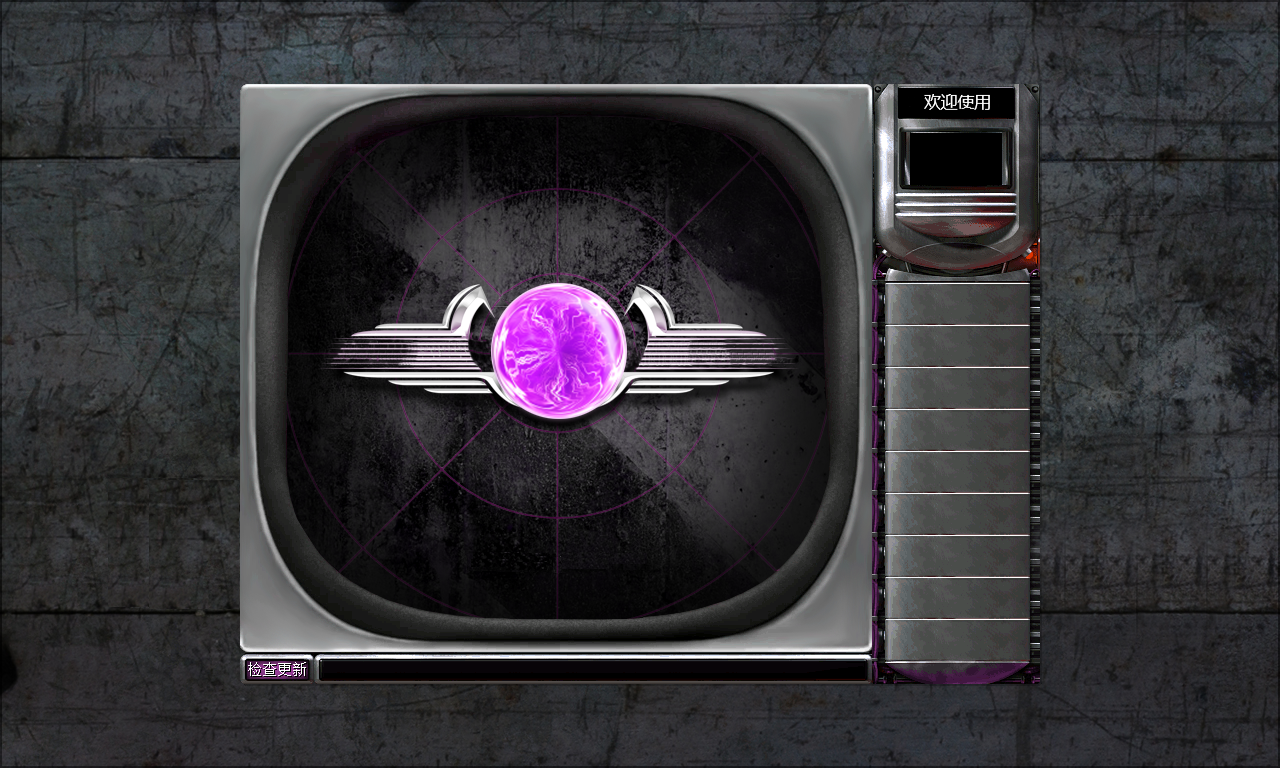
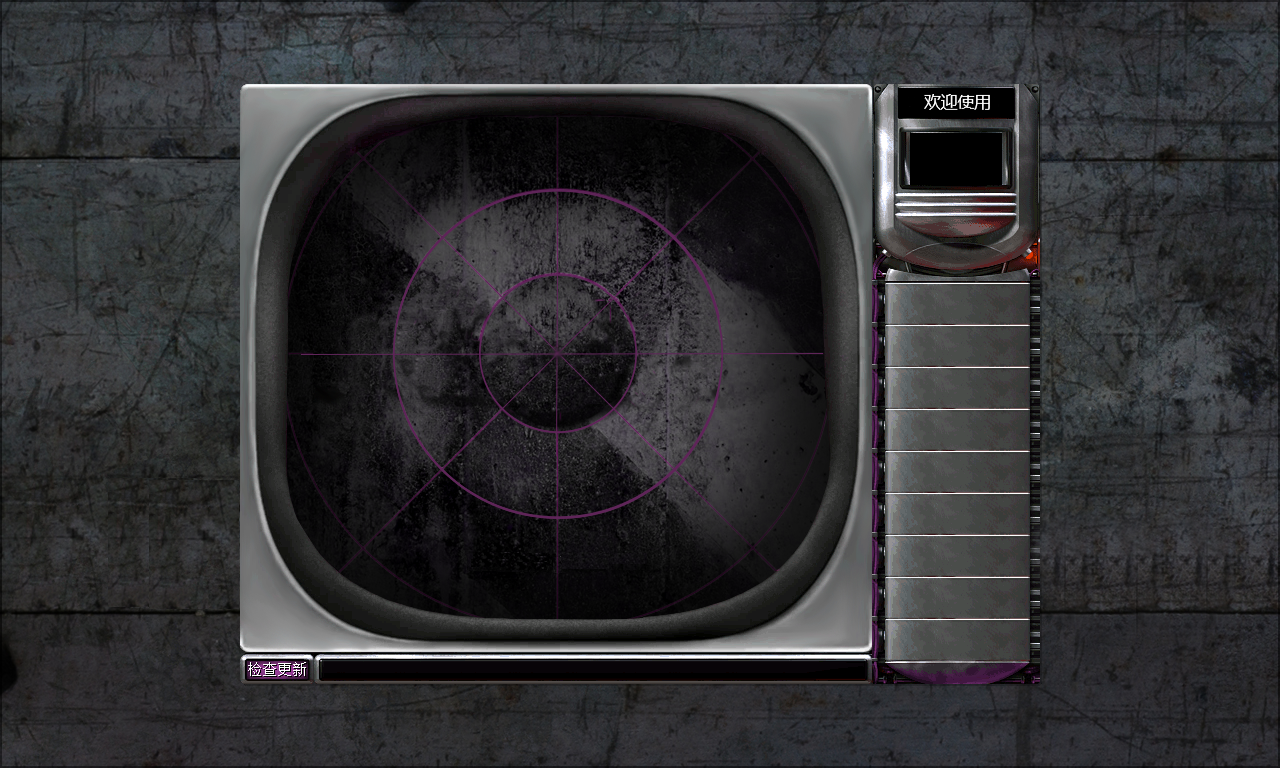
add some new images add update package login class LoginFrame

Changed region(s): [[0.25, 0.3438, 0.625, 0.5625], [0.4062, 0.6562, 0.4688, 0.6875], [0.4688, 0.25, 0.5, 0.2812]]

diff --git a/src/qdu/lyn/stdsys/login/NewLoginFrame.java b/src/qdu/lyn/stdsys/login/NewLoginFrame.java
@@ -1,15 +1,107 @@
 package qdu.lyn.stdsys.login;
 
+import javax.swing.ImageIcon;
 import javax.swing.JFrame;
 import java.awt.Toolkit;
+import java.awt.event.MouseAdapter;
+import java.awt.event.MouseEvent;
 import java.awt.Dimension;
+import javax.swing.JLabel;
+import javax.swing.JOptionPane;
+
+import qdu.lyn.stdsys.image.ImageUrl;
+import javax.swing.JTextField;
+import javax.swing.JPasswordField;
+import java.awt.Color;
+
 
 public class NewLoginFrame extends JFrame{
+	private JTextField textField;
+	private JPasswordField passwordField;
 	public NewLoginFrame() {
-		setSize(new Dimension(1280, 768));
-		setTitle("StudentManager");
 		setIconImage(Toolkit.getDefaultToolkit().getImage(NewLoginFrame.class.getResource("/ico/ico.png")));
+		setSize(1280, 768);
 		getContentPane().setLayout(null);
+		
+		JLabel loginButton = new JLabel("");
+		loginButton.setIcon(new ImageIcon(NewLoginFrame.class.getResource("/but/Loginbtn.png")));
+		loginButton.setBounds(899, 295, 143, 44);
+		loginButton.addMouseListener(new MouseAdapter() {
+			@Override
+			public void mouseEntered(MouseEvent e) {
+				// TODO 自动生成的方法存根
+				super.mouseEntered(e);
+				loginButton.setIcon(new ImageIcon(NewLoginFrame.class.getResource("/but/Loginbtn_c.png")));
+			}
+			@Override
+			public void mouseExited(MouseEvent e) {
+				// TODO 自动生成的方法存根
+				super.mouseExited(e);
+				loginButton.setIcon(new ImageIcon(NewLoginFrame.class.getResource("/but/Loginbtn.png")));
+			}
+		});
+		getContentPane().add(loginButton);
+		
+		
+		
+		JLabel exitButton = new JLabel("");
+		exitButton.setIcon(new ImageIcon(NewLoginFrame.class.getResource("/but/Exitbut.png")));
+		exitButton.setBounds(899, 632, 143, 44);
+		exitButton.addMouseListener(new MouseAdapter() {
+			@Override
+			public void mouseEntered(MouseEvent e) {
+				// TODO 自动生成的方法存根
+				super.mouseEntered(e);
+				exitButton.setIcon(new ImageIcon(NewLoginFrame.class.getResource("/but/Exitbut_c.png")));
+			}
+			@Override
+			public void mouseExited(MouseEvent e) {
+				// TODO 自动生成的方法存根
+				super.mouseExited(e);
+				exitButton.setIcon(new ImageIcon(NewLoginFrame.class.getResource("/but/Exitbut.png")));
+			}
+			@Override
+			public void mouseClicked(MouseEvent e) {
+				// TODO 自动生成的方法存根
+				super.mouseClicked(e);
+				int res=JOptionPane.showConfirmDialog(null, "退出程序", "是否要退出学生管理系统", JOptionPane.YES_NO_OPTION);
+                if(res==JOptionPane.YES_OPTION){ 
+                      System.exit(1);
+                }else{
+                    return;
+                }
+			}
+		});
+		getContentPane().add(exitButton);
+		
+		textField = new JTextField();
+		textField.setForeground(Color.WHITE);
+		textField.setBackground(Color.DARK_GRAY);
+		textField.setBounds(383, 420, 125, 24);
+		getContentPane().add(textField);
+		textField.setColumns(10);
+		
+		passwordField = new JPasswordField();
+		passwordField.setForeground(Color.WHITE);
+		passwordField.setBackground(Color.DARK_GRAY);
+		passwordField.setBounds(642, 420, 125, 24);
+		getContentPane().add(passwordField);
+		
+		JLabel label = new JLabel("");
+		label.setBounds(257, 666, 74, 30);
+		getContentPane().add(label);
+		
+		JLabel bgLabel = new JLabel("");
+		bgLabel.setIcon(new ImageIcon(NewLoginFrame.class.getResource("/bg/nloginbg.png")));
+		bgLabel.setBounds(14, 13, 1280, 768);
+		getContentPane().add(bgLabel);
+		
+		
+		
+		
 	}
-
+	public static void main(String[] args) {
+		NewLoginFrame newLoginFrame = new NewLoginFrame();
+		newLoginFrame.setVisible(true);
+	}
 }

diff --git a/src/qdu/lyn/stdsys/image/ImageUrl.java b/src/qdu/lyn/stdsys/image/ImageUrl.java
@@ -1,0 +1,13 @@
+package qdu.lyn.stdsys.image;
+
+import java.net.URL;
+
+public class ImageUrl {
+	//通用图标
+
+	public static final URL LOGIN_BACKGROUND = getResource("/img/bg/loginbg.png");
+
+	public static URL getResource(String filename) {
+		return ImageUrl.class.getResource(filename);
+	}
+}
